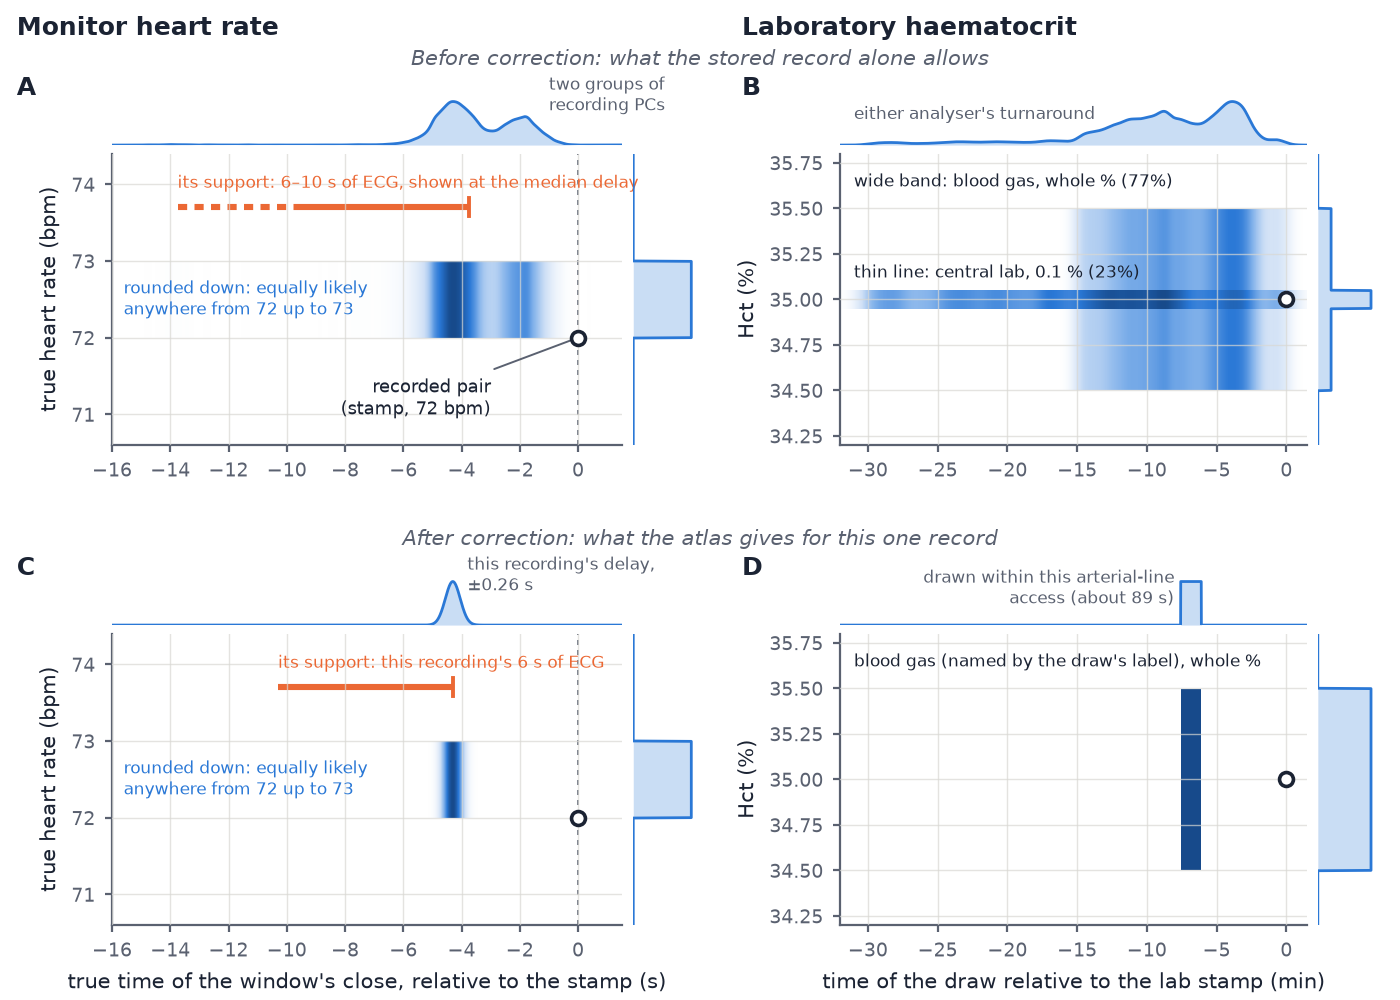
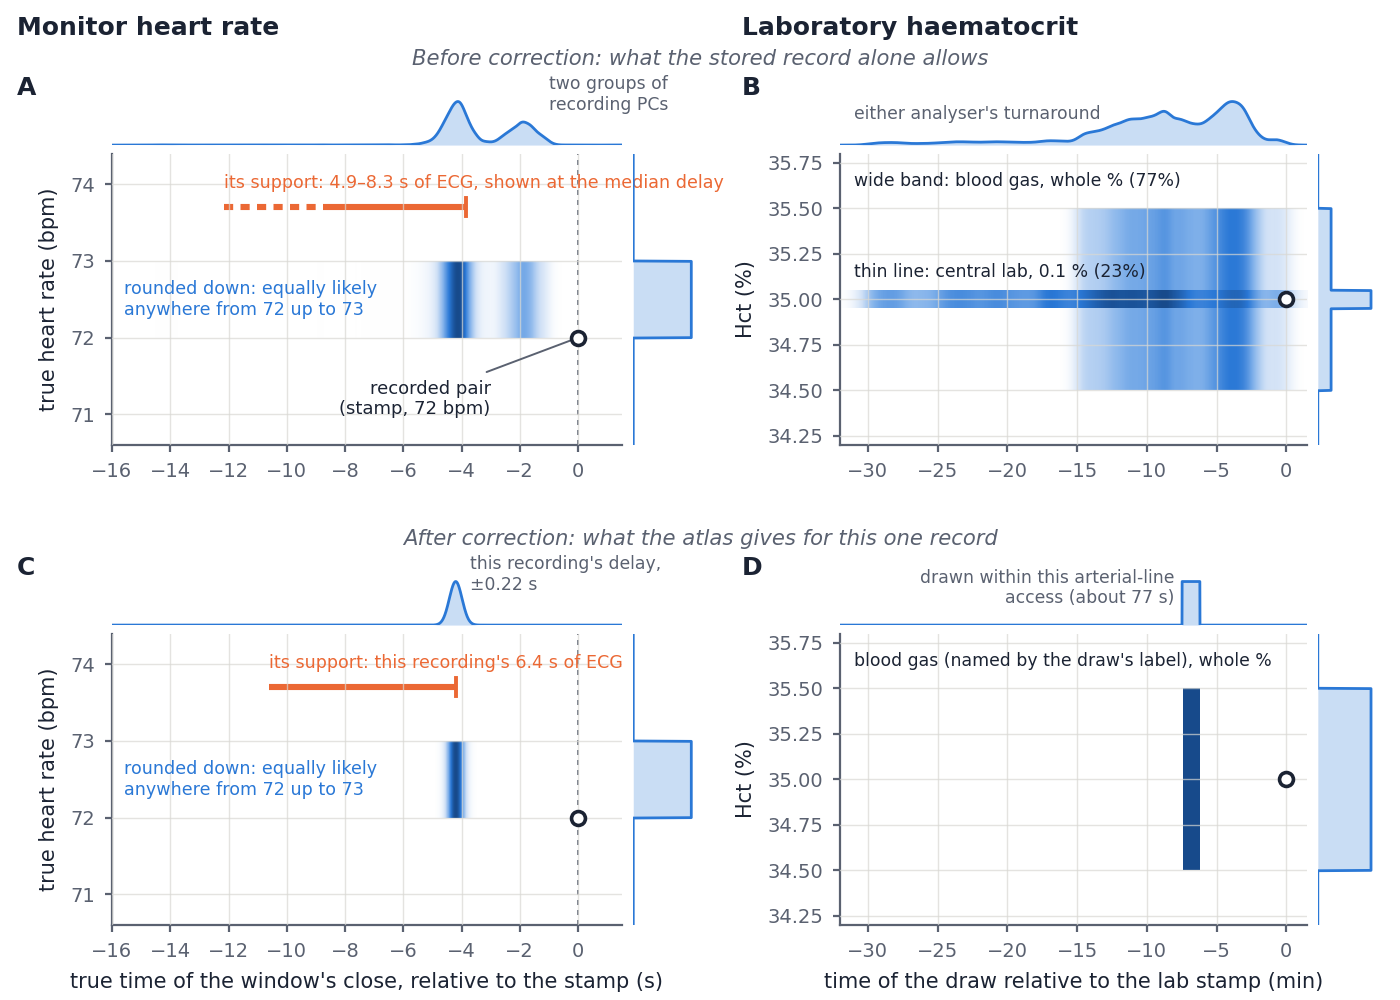
Print layout for the timing graph; refresh the record-PDF example
overview_svg(print_=True) draws the timing graph for a printed page: narrower
boxes, labels wrapped to them, type about twice the screen size (smallest text
about 6 pt at a page's text width), no hover or script. The screen layout is
byte-identical. New command: python -m metrology_atlas graph DATASET --out
FILE [--print].

Worked example "a record as a PDF": figure regenerated from the current atlas
and labels (6.4 s support, +/-0.22 s delay label, 77 s access). The text gives
the median access, 53 s, and explains the 77 s as sqrt(12) x the draw-position
uncertainty, a root mean square that the long accesses weight; it said 89 s.

Front page: "1 variable so far" (was "1 variables").

diff --git a/metrology_atlas/overview.py b/metrology_atlas/overview.py
@@ -16,6 +16,11 @@ STATUS_COL = {"measured": "#1b7f4b", "derived": "#1b7f4b", "estimated": "#b26b00
 STATUS_DASH = {"estimated": "8,5", "assumed": "2,5"}
 FONT = "Inter, Helvetica, Arial, sans-serif"
 NODE_W, NODE_H, ROW_H, MARGIN = 250, 60, 190, 40
+# The print layout (print_=True), for a figure set at a page's text width (about 455 pt): narrower boxes, wrapped
+# labels and type about twice the screen size, so that the smallest text prints at about 6 pt. No hover, no script.
+SCREEN = dict(node_w=NODE_W, node_h=NODE_H, row_h=ROW_H, gap=34, margin=MARGIN, min_w=1000, t=15, s=11.5, n=12, k=12,
+              r=11, wrap=False)
+PRINT = dict(node_w=190, node_h=100, row_h=150, gap=30, margin=20, min_w=0, t=18, s=15, n=14, k=16, r=12, wrap=True)
 
 
 def _param_text(ds, pid):
@@ -42,7 +47,19 @@ def _short(text, n):
     return text if len(text) <= n else text[: n - 1].rstrip() + "…"
 
 
-def graph(ds, root="utc"):
+def _lines(text, size, width, bold=False):
+    """Wrap text to a box width, estimating Inter's advance as 0.54 (semibold) or 0.53 of the font size per character."""
+    n = max(int(width / (size * (0.54 if bold else 0.53))), 8)
+    out, line = [], ""
+    for w in str(text).split():
+        if line and len(line) + 1 + len(w) > n:
+            out.append(line); line = w
+        else:
+            line = f"{line} {w}".strip()
+    return out + [line] if line else out
+
+
+def graph(ds, root="utc", L=SCREEN):
     """Layout: rows by distance from the root; deeper clocks centred under the clock they are measured against."""
     clocks, links = ds.items["clock"], ds.items["link"]
     live = {k: l for k, l in links.items() if l.get("status") not in ("withdrawn", "superseded")}
@@ -66,7 +83,7 @@ def graph(ds, root="utc"):
             if l["clock"] not in kids[l["against"]]:
                 kids[l["against"]].append(l["clock"])
     parent = {k: p for p, ks in kids.items() for k in ks}
-    gap = NODE_W + 34
+    gap = L["node_w"] + L["gap"]
     xpos = {}
 
     def centre_out(cs):
@@ -90,10 +107,11 @@ def graph(ds, root="utc"):
             for i, c in enumerate(centre_out(row)):
                 xpos[c] = (i - (len(row) - 1) / 2) * gap
     lo, hi = min(xpos.values()), max(xpos.values())
-    width = max(hi - lo + NODE_W + 2 * MARGIN, 1000)
-    height = 70 + max(rows) * ROW_H + NODE_H + 30
+    width = max(hi - lo + L["node_w"] + 2 * L["margin"], L["min_w"])
+    top = 60 if L is SCREEN else 20
+    height = top + 10 + max(rows) * L["row_h"] + L["node_h"] + 30
     off = (width - (hi - lo)) / 2 - lo
-    xy = {c: (xpos[c] + off, 60 + depth[c] * ROW_H + NODE_H / 2) for c in depth}
+    xy = {c: (xpos[c] + off, top + depth[c] * L["row_h"] + L["node_h"] / 2) for c in depth}
     pairs = {}
     for lid, l in sorted(live.items(), key=lambda kv: (depth.get(kv[1]["clock"], 9), xy.get(kv[1]["clock"], (0, 0))[0])):
         pairs.setdefault((l["clock"], l["against"]), []).append(lid)
@@ -118,18 +136,20 @@ def link_rows(ds, g):
     return rows
 
 
-def overview_svg(ds, root="utc", href=lambda kind, id_: ""):
+def overview_svg(ds, root="utc", href=lambda kind, id_: "", print_=False):
     """Draw the timing graph as an SVG: every clock below the clock it is measured against, links labelled with drift
-    and correction interval; `href` gives each box's link.
+    and correction interval; `href` gives each box's link. `print_` gives the layout for a printed page (PRINT).
     """
-    g = graph(ds, root)
+    L = PRINT if print_ else SCREEN
+    NODE_W, NODE_H = L["node_w"], L["node_h"]
+    g = graph(ds, root, L)
     clocks, xy, depth = g["clocks"], g["xy"], g["depth"]
     info = {r["id"]: r for r in link_rows(ds, g)}
     W, H = g["width"], g["height"]
     out = [f'<svg xmlns="http://www.w3.org/2000/svg" viewBox="0 0 {W:.0f} {H:.0f}" font-family="{FONT}" role="img" '
            f'aria-label="The atlas timing graph: clocks and the links measured between them">',
-           "<style>.t{font-size:15px;font-weight:600;fill:#14213d}.s{font-size:11.5px;fill:#555}"
-           ".n{font-size:12px;font-weight:700;fill:#fff}.k{font-size:12px;fill:#444}"
+           f"<style>.t{{font-size:{L['t']}px;font-weight:600;fill:#14213d}}.s{{font-size:{L['s']}px;fill:#555}}"
+           f".n{{font-size:{L['n']}px;font-weight:700;fill:#fff}}.k{{font-size:{L['k']}px;fill:#444}}"
            ".hit{cursor:pointer}.hit:hover .box{stroke-width:2.6}.hit:hover .line{stroke-width:4.5}"
            "#tip text{font-size:12.5px;fill:#14213d}#tip .h{font-weight:700}</style>"]
     # links
@@ -151,7 +171,7 @@ def overview_svg(ds, root="utc", href=lambda kind, id_: ""):
             bx, by = (x1 + x2) / 2, (y1 + NODE_H / 2 + my) / 2
         else:
             d = f"M{x1:.0f},{y1 - NODE_H / 2:.0f} L{x2:.0f},{y2 + NODE_H / 2:.0f}"
-            by = y1 - NODE_H / 2 - 26
+            by = y1 - NODE_H / 2 - (26 if L is SCREEN else 22)
             f = (y1 - NODE_H / 2 - by) / max(y1 - y2 - NODE_H, 1)
             bx = x1 + f * (x2 - x1)
         lines = []
@@ -165,8 +185,8 @@ def overview_svg(ds, root="utc", href=lambda kind, id_: ""):
                    f'<path class="line" d="{d}" fill="none" stroke="{col}" stroke-width="2.6"'
                    + (f' stroke-dasharray="{dash}"' if dash else "") + "/>"
                    f'<path d="{d}" fill="none" stroke="transparent" stroke-width="14"/>'
-                   f'<circle cx="{bx:.0f}" cy="{by:.0f}" r="11" fill="{col}"/>'
-                   f'<text x="{bx:.0f}" y="{by + 4:.0f}" text-anchor="middle" class="n">{n}</text>'
+                   f'<circle cx="{bx:.0f}" cy="{by:.0f}" r="{L["r"]}" fill="{col}"/>'
+                   f'<text x="{bx:.0f}" y="{by + L["n"] * 0.35:.0f}" text-anchor="middle" class="n">{n}</text>'
                    f"<title>{escape(chr(10).join(lines))}</title></a>")
     # clocks
     for c, (x, y) in xy.items():
@@ -175,19 +195,34 @@ def overview_svg(ds, root="utc", href=lambda kind, id_: ""):
         if cl.get("nominal"):
             lines.append("Nominal: " + _short(cl["nominal"], 80))
         url = href("clock", c)
+        if L["wrap"]:
+            # title and nominal wrapped to the box, the block centred in it
+            tl = _lines(cl["name"], L["t"], NODE_W - 14, bold=True)
+            sl = _lines(_short(cl.get("nominal") or "", 40), L["s"], NODE_W - 14)
+            lh_t, lh_s = L["t"] * 1.15, L["s"] * 1.2
+            y0 = y - (len(tl) * lh_t + len(sl) * lh_s + 4) / 2 + L["t"] * 0.85
+            texts = "".join(f'<text x="{x:.0f}" y="{y0 + i * lh_t:.0f}" text-anchor="middle" class="t">{escape(t)}</text>'
+                            for i, t in enumerate(tl))
+            ys = y0 + (len(tl) - 1) * lh_t + 4 + lh_s
+            texts += "".join(f'<text x="{x:.0f}" y="{ys + i * lh_s:.0f}" text-anchor="middle" class="s">{escape(t)}</text>'
+                             for i, t in enumerate(sl))
+        else:
+            texts = (f'<text x="{x:.0f}" y="{y - 3:.0f}" text-anchor="middle" class="t">{escape(cl["name"])}</text>'
+                     f'<text x="{x:.0f}" y="{y + 16:.0f}" text-anchor="middle" class="s">{escape(_short(cl.get("nominal") or "", 36))}</text>')
         out.append(f'<a class="hit" href="{url}" target="_top" data-tip={quoteattr(json.dumps(lines))}>'
                    f'<rect class="box" x="{x - NODE_W / 2:.0f}" y="{y - NODE_H / 2:.0f}" width="{NODE_W}" height="{NODE_H}" '
-                   f'rx="8" fill="#f5f7fb" stroke="#14213d" stroke-width="1.4"/>'
-                   f'<text x="{x:.0f}" y="{y - 3:.0f}" text-anchor="middle" class="t">{escape(cl["name"])}</text>'
-                   f'<text x="{x:.0f}" y="{y + 16:.0f}" text-anchor="middle" class="s">{escape(_short(cl.get("nominal") or "", 36))}</text>'
+                   f'rx="8" fill="#f5f7fb" stroke="#14213d" stroke-width="1.4"/>' + texts +
                    f"<title>{escape(chr(10).join(lines))}</title></a>")
     # legend
-    lx = MARGIN
+    lx = L["margin"]
     for i, (st, lab) in enumerate((("measured", "measured"), ("estimated", "estimated"), ("assumed", "assumed"))):
-        x = lx + i * 150
+        x = lx + i * (150 if L is SCREEN else 170)
         out.append(f'<line x1="{x}" y1="{H - 18}" x2="{x + 36}" y2="{H - 18}" stroke="{STATUS_COL[st]}" stroke-width="2.6"'
                    + (f' stroke-dasharray="{STATUS_DASH[st]}"' if st in STATUS_DASH else "") + "/>"
                    f'<text x="{x + 44}" y="{H - 14}" class="k">{lab}</text>')
+    if print_:
+        out.append("</svg>")
+        return "\n".join(out)
     out.append(f'<text x="{lx + 470}" y="{H - 14}" class="k">Numbers: the links in the table below. '
                f'Hover for detail; click to open a page.</text>')
     # hover panel

diff --git a/metrology_atlas/__main__.py b/metrology_atlas/__main__.py
@@ -3,6 +3,8 @@
     python -m metrology_atlas check datasets/vitaldb
     python -m metrology_atlas json  datasets/vitaldb --out build/vitaldb.metrology.json
     python -m metrology_atlas site  datasets/vitaldb --out build/vitaldb      (then: zensical build in that folder)
+    python -m metrology_atlas graph datasets/vitaldb --out timing-graph.svg [--print]   (the timing graph alone;
+        --print: the layout for a printed page, as in the paper's Figure 5)
     add --release to json/site for the public build: links into repositories that are not public are left out
 """
 
@@ -31,10 +33,10 @@ def todo(ds) -> str:
 
 
 def main(argv: list[str] | None = None) -> int:
-    """Command line: check, json, site or todo for a dataset folder; returns the exit code."""
+    """Command line: check, json, site, graph or todo for a dataset folder; returns the exit code."""
     ap = argparse.ArgumentParser(prog="metrology-atlas")
     sub = ap.add_subparsers(dest="cmd", required=True)
-    for name in ("check", "json", "site", "todo"):
+    for name in ("check", "json", "site", "todo", "graph"):
         p = sub.add_parser(name)
         p.add_argument("dataset")
         if name not in ("check", "todo"):
@@ -42,6 +44,9 @@ def main(argv: list[str] | None = None) -> int:
         if name in ("json", "site"):
             p.add_argument("--release", action="store_true",
                            help="public build: software that is not public is shown as not yet released, unlinked")
+        if name == "graph":
+            p.add_argument("--print", dest="print_", action="store_true",
+                           help="the layout for a printed page: wrapped labels, larger type, no hover")
     a = ap.parse_args(argv)
     try:
         ds = load(a.dataset)
@@ -60,6 +65,11 @@ def main(argv: list[str] | None = None) -> int:
         print(f"ok: {counts}")
     elif a.cmd == "todo":
         print(todo(ds))
+    elif a.cmd == "graph":
+        from pathlib import Path
+        from metrology_atlas.overview import overview_svg
+        Path(a.out).write_text(overview_svg(ds, print_=a.print_), encoding="utf-8")
+        print(f"wrote {a.out}")
     elif a.cmd == "json":
         print(f"wrote {write_json(ds, a.out)} ({counts})")
     else:

diff --git a/metrology_atlas/site.py b/metrology_atlas/site.py
@@ -1679,7 +1679,7 @@ class Site:
                 f"| **Time** | {clocks} [clocks](clocks/index.md) and {links} [links](links/index.md) between them; "
                 f"{chains} variables with a written chain from UTC, {timed} with timing against the working reference | "
                 "each timing form's budget; the stamp grids and the intervals values describe (chart below) |\n"
-                f"| **Value** | {(str(acc) + ' variables so far') if acc else 'Not yet described for any variable: it needs the instruments’ calibration records ([why](studies/instrument-calibration.md))'} | {valued} variables, {models} with fitted rounding models "
+                f"| **Value** | {(str(acc) + (' variable' if acc == 1 else ' variables') + ' so far') if acc else 'Not yet described for any variable: it needs the instruments’ calibration records ([why](studies/instrument-calibration.md))'} | {valued} variables, {models} with fitted rounding models "
                 "([Value](value.md)) |\n\n")
 
     def references_page(self) -> str:

diff --git a/datasets/vitaldb/pages/worked-example-record-pdf.md b/datasets/vitaldb/pages/worked-example-record-pdf.md
@@ -38,7 +38,7 @@ central laboratory; [[variable:lab-blood-gas]], [[variable:lab-central]], [[stud
 
 **After correction.** The panel stamped with the value names the analyser (a panel with pH is a blood gas), and the
 draw's label places the draw within one arterial-line access ([[study:arterial-line-accesses]]; timing form
-[draw time from arterial access](variables/lab-blood-gas.md#form-lab-draw)). Where in that access the draw happened is uniform over about 89 s. The typical record is a blood gas
+[draw time from arterial access](variables/lab-blood-gas.md#form-lab-draw)). Where in that access the draw happened is uniform over the access, a median [[value:lab-access-length]] long. The typical record is a blood gas
 drawn 410 s (6.8 min, the blood-gas median) before its stamp, so its value stays the whole-percent band.
 
 ## Numbers in the caption
@@ -48,7 +48,7 @@ drawn 410 s (6.8 min, the blood-gas median) before its stamp, so its value stays
 | Support before correction | the last [[value:hr-window|number]] R–R intervals: [[value:hr-window-span]] at the median rate | [[study:hr-derivation]]; [timing form after the per-case delay label](variables/solar8000-hr.md#form-hr-lab): interval described |
 | Standard uncertainty of a recording's delay label | [[value:hr-label-se]] | [[parameter:hr-label-se]] |
 | Share of recorded 35% from the blood-gas analyser | about three in four (77%) | [[software:vitaldb-resolution]] value model |
-| Length of the arterial-line access | about 89 s | [[variable:lab-blood-gas]], [timing form draw time from arterial access](variables/lab-blood-gas.md#form-lab-draw): its component (√12 × u) |
+| Length of the arterial-line access | about 77 s: √12 × [[value:lab-draw-position-u]], the root mean square over all draws, which the long accesses weight (the median access is [[value:lab-access-length]]) | [[variable:lab-blood-gas]], [timing form draw time from arterial access](variables/lab-blood-gas.md#form-lab-draw): its component (√12 × u) |
 
 The figure is drawn by `figures/src/fig_record_distributions.py` in the paper's source, from the atlas file, the
 per-record label tables of [[software:vitaldb-bench]] (numeric delay and lab draw labels), and
